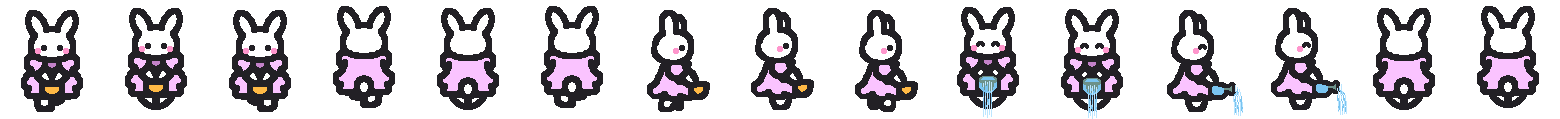
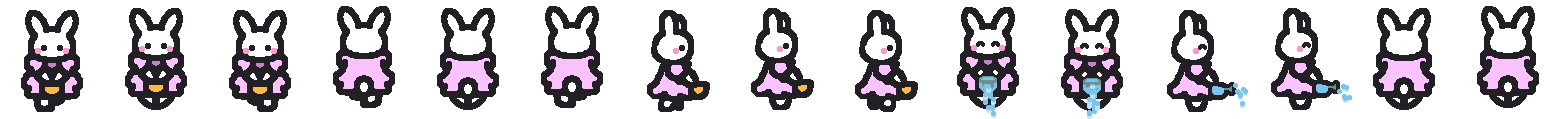
feat: melhorias esteticas

diff --git a/src/scenes/garden.js b/src/scenes/garden.js
@@ -22,7 +22,19 @@ class Garden extends Phaser.Scene {
     update(time, delta){
         // runEvery(this, 10, delta, 'musicPitcher', () => randomMusicPitch(this.music));
         if (this.isPaused) return;
+        this.skyLogic(delta);
         this.player.playerLogic();
+    }
+
+    skyLogic(delta) {
+        if (this.level > 7) delta *= (this.level-7)*2;
+        if (this.sky) {
+            this.sky.setPosition(this.sky.x-delta/100, 0);
+            if (this.sky.x < -800) {
+                this.sky.setPosition(0, 0);
+            }
+
+        }
     }
 
     transitionLevel(level) {
@@ -41,22 +53,23 @@ class Garden extends Phaser.Scene {
     }
 
     loadLevel(level, fade) {
-        let background = 'background'
+        // let background = 'background'
         this.level = level;
-        if(level === 0) {
-            background = 'background0'
-        }
-        if(level > 7) {
-            background = 'background2'
-        }
+
         this.isPaused = true;
         this.carrotGoal = 0;
         if (fade && fade === true) this.cameras.main.fadeIn(1000, 0, 0, 0);
 
-        if(this.bg) this.bg.destroy();
-        if(this.map) this.map.destroy();
+        if(level == 0) this.bg = this.add.image(400, 300, "background0");
+        else if (this.bg) this.bg.destroy();
+
+        if(this.floor) this.floor.destroy();
+        if(this.trees) this.trees.destroy();
+        if(!this.sky) this.sky = this.add.image(0, 0, "sky").setDepth(-9).setOrigin(0, 0);
         //if(this.mapSpecial) this.mapSpecial.destroy()
-        this.bg = this.add.image(400, 300, background).setDepth(-10);
+
+        this.floor = this.add.image(400, 300, "floor").setDepth(-10);
+        this.trees = this.add.image(0, 0, "trees").setDepth(-8).setOrigin(0, 0);
 
         if(this.player) this.player.destroy();
         if(!this.bruh) this.bruh = this.sound.add('bruh');
@@ -64,7 +77,8 @@ class Garden extends Phaser.Scene {
         if(!this.fence) this.fence = this.physics.add.staticImage(400, 100, 'fence');
         this.fence.body.setSize(800, 60);
         this.fence.setDepth(-6);
-        
+
+        if(this.map) this.map.destroy();
         if(this.mapElements) {
             this.mapElements.forEach(obj => {
                 obj.destroy();
@@ -275,6 +289,7 @@ class Carrot extends Special {
   
     onOverlap() {
         if (!this.active) return;
+        new Shine(this.player.scene, this.body.x+15, this.body.y);
         this.destroy();
         this.player.carrots++
         console.log(this.player.scene.carrotGoal);
@@ -381,22 +396,40 @@ class Powerup extends Special {
     }
   
     onOverlap() {
+        new Shine(this.scene, this.body.x, this.body.y);
         this.player.dialogStart("power"+this.number);
         if (this.number === 3) {
             this.destroy();
             const scene = this.player.scene
             console.log("collect")
             scene.music.stop();
+            // scene.isPaused = true;
+            this.player.setVelocity(0, 0);
             scene.time.delayedCall(3000, () => {
                 glitchLag(scene, 8, 300, function(){
                     scene.music.play();
                     scene.music.setSeek(2);
+                    scene.sky.setPosition(0,0);
                 }, function(){
                     scene.music.setRate(0.98);
                     scene.music.play();
+                    scene.isPaused=false;
                     scene.loadLevel(8);
                 })
             })
         } else this.destroy();
+    }
+}
+
+class Shine extends Phaser.GameObjects.Sprite {
+    constructor(scene, x, y) {
+        super (scene, x, y, "shine")
+        scene.add.existing(this);
+        this.setOrigin(0.5, 0.5);
+        this.setDepth(0);
+        createAnimation(this.scene, "shineanim", "shine", 0, 3, 10, 0, false);
+        this.anims.play("shineanim");
+        this.anims.play("shineanim");
+        this.on('animationcomplete', () => this.destroy());
     }
 }

diff --git a/src/player.js b/src/player.js
@@ -44,9 +44,8 @@ class Player extends Phaser.Physics.Arcade.Sprite {
             intro0:   { next: "intro0_1", speaker: "mary", text: "Olá! Eu sou Marygold, mas pode me chamar de Mary!" },
             intro0_1:  { next: "intro0_2", speaker: "mary", text: "Estou precisando de algumas cenourinhas para fazer um bolo de cenoura muito gostoso..." },
             intro0_2:  { next: null, end:"nextlevel", speaker: "mary", text: "Para isso, preciso dar um passeio na minha horta de cenouras! Você poderia me ajudar a colher?" },
-            intro1:   { next: null, speaker: "mary", text: "dialogo fase 2" },
             power1:  { next: "power1_1", speaker: "mary", text: "Que legal, agora eu posso pular por cima de poças de água!" },
-            power1_1:  { next: null, end:"nextlevel", speaker: "exclamation", blip: "silent", text: "Pressione Espaço para pular!"},
+            power1_1:  { next: null, end:"nextlevel", speaker: "exclamation", blip: "silent", text: "Pressione ESPAÇO para pular!"},
             power2:  { next: "power2_1", speaker: "mary", text: "Finalmente achei meu regador! Posso regar as cenourinhas que estão plantadas!" },
             power2_1:  { next: null, end:"nextlevel", speaker: "exclamation", blip: "silent", text: "Pressione E para regar!"},
           }; 
@@ -81,15 +80,7 @@ class Player extends Phaser.Physics.Arcade.Sprite {
         }
 
         if (vx == 0 && vy == 0) {
-            if (this.animState === 'walkright') {
-                this.animState = 'idleright'
-            }
-            if (this.animState === 'walkup') {
-                this.animState = 'idleup'
-            }
-            if (this.animState === 'walkdown') {
-                this.animState = 'idledown'
-            }
+            this.idle();
         }
         else if (vx > 0) {
             this.animState = 'walkright';
@@ -133,6 +124,9 @@ class Player extends Phaser.Physics.Arcade.Sprite {
         }
 
         this.setVelocity(0, 0);
+        this.idle();
+        this.anims.play('mary'+this.animState);
+
         this.dialogIndex = index;
         if (!this.scene.dialogBox) this.scene.dialogBox = this.scene.add.image(400, 500, 'dialogbox');
         if (!this.scene.dialogE) this.scene.dialogE = new Tooltip(this.scene, "e");
@@ -252,6 +246,18 @@ class Player extends Phaser.Physics.Arcade.Sprite {
             default:
                 this.anims.play("marywaterdown");
                 break;
+        }
+    }
+
+    idle() {
+        if (this.animState === 'walkright') {
+            this.animState = 'idleright'
+        }
+        if (this.animState === 'walkup') {
+            this.animState = 'idleup'
+        }
+        if (this.animState === 'walkdown') {
+            this.animState = 'idledown'
         }
     }
 

diff --git a/src/loading.js b/src/loading.js
@@ -34,6 +34,9 @@ class Loading extends Phaser.Scene {
       });
       this.load.image('background0', 'src/public/assets/bg0.png');
       this.load.image('background', 'src/public/assets/bg.png');
+      this.load.image('floor', 'src/public/assets/floor.png');
+      this.load.image('sky', 'src/public/assets/sky.png');
+      this.load.image('trees', 'src/public/assets/trees.png');
       this.load.audio('garden_calm', 'src/public/assets/garden_calm.ogg');
       this.load.image('marystatic', 'src/public/assets/marystatic.png');
       this.load.image('tooltip_e', 'src/public/assets/tooltipE.png');
@@ -78,6 +81,10 @@ class Loading extends Phaser.Scene {
       this.load.spritesheet('powerup', 'src/public/assets/powerup.png', {
         frameWidth: 64,
         frameHeight: 59,
+      });
+      this.load.spritesheet('shine', 'src/public/assets/shine.png', {
+        frameWidth: 80,
+        frameHeight: 80,
       });
     }
   
